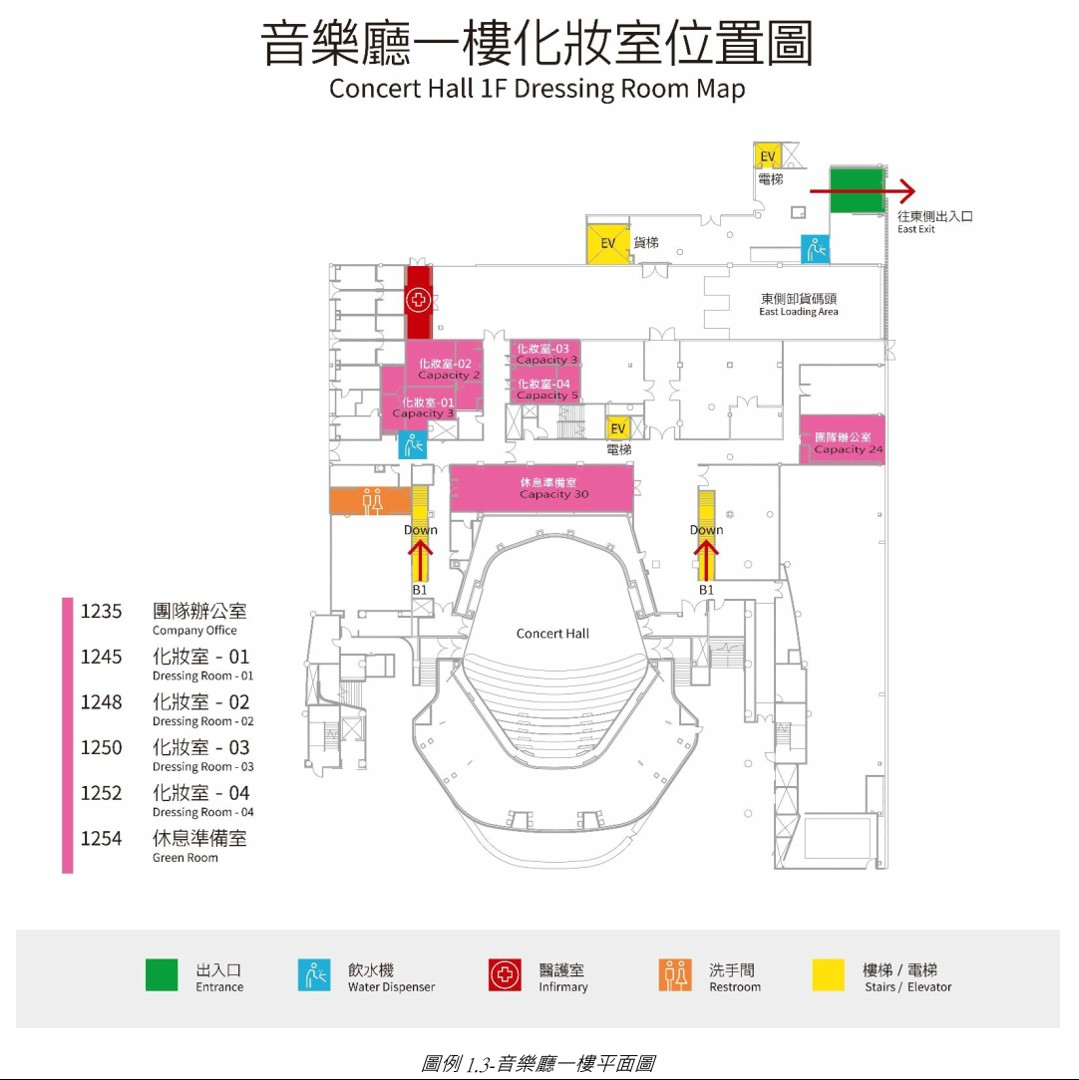
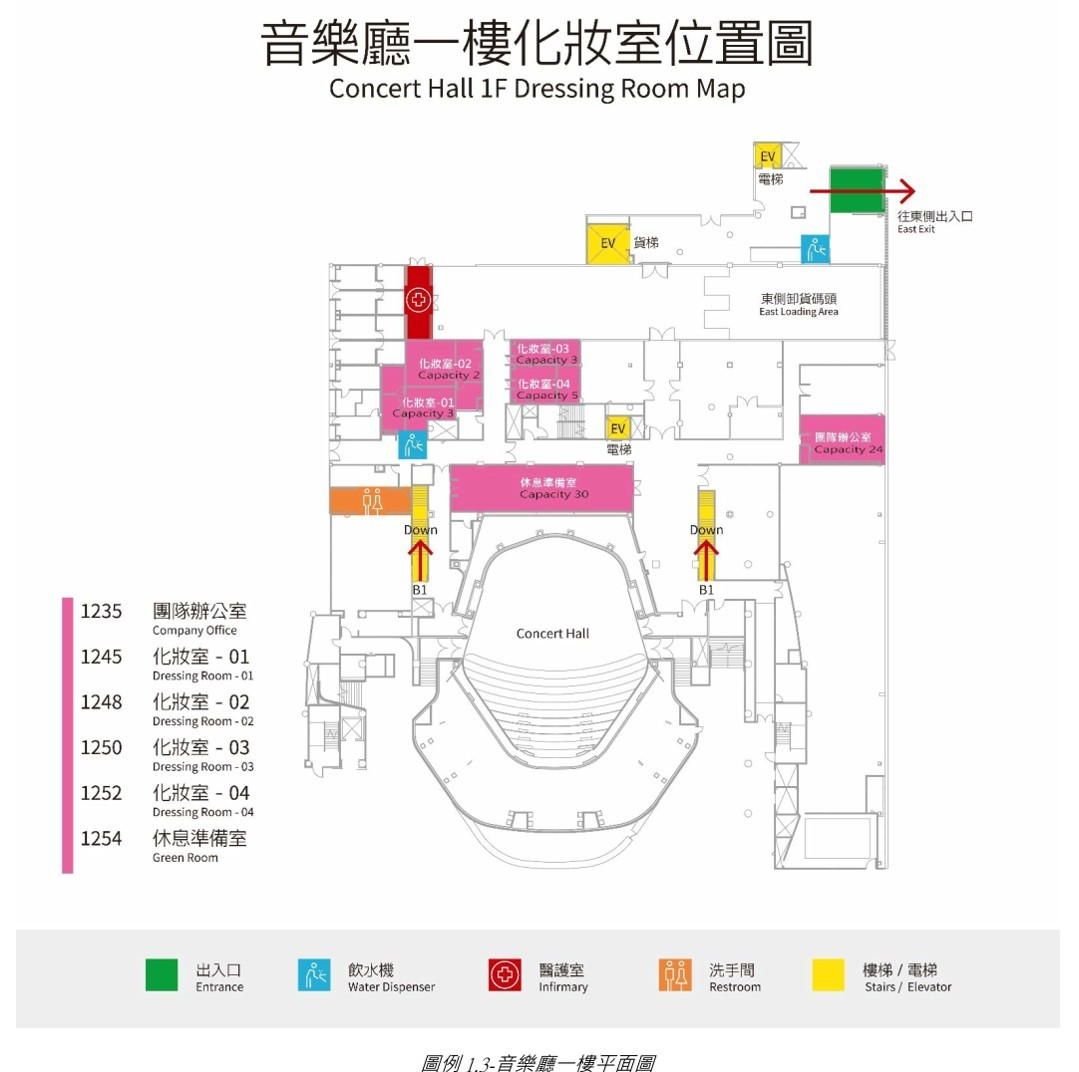
update

diff --git a/location_info.md b/location_info.md
@@ -8,18 +8,18 @@
 **高雄中學　綜合大樓四樓　英文科小劇場**      
 地址：高雄市三民區建國三路50號     
 
-<img src="pic/loc/loc_ks1.jpg" width="40%">     
-<img src="pic/loc/loc_ks2.jpg" width="40%">     
-<img src="pic/loc/loc_ks3.jpg" width="40%">     
-<img src="pic/loc/loc_ks4.jpg" width="40%">     
-<img src="pic/loc/loc_ks5.jpg" width="40%">     
+<img src="pic/loc/loc_ks1.jpg" width="60%">     
+<img src="pic/loc/loc_ks2.jpg" width="60%">     
+<img src="pic/loc/loc_ks3.jpg" width="60%">     
+<img src="pic/loc/loc_ks4.jpg" width="60%">     
+<img src="pic/loc/loc_ks5.jpg" width="60%">     
 
 
 ## 衛武營排練場地
 
-7/27~28：**衛武營　B304　合唱排練室**
-7/29：**衛武營音樂廳後台**
-地址：高雄市鳳山區三多一路 1 號
+7/27~28：**衛武營　B304　合唱排練室**          
+7/29：**衛武營音樂廳後台**         
+地址：高雄市鳳山區三多一路 1 號         
 
 ### 衛武營出入口
 
@@ -27,12 +27,12 @@
 - B1 停車場演職人員入口
 - 營運辦公室（近捷運）
 
-進入場館時需持演出工作證通行，或刷身分證或健保卡進入場館。      
+進入場館時需持演出工作證通行，或**刷身分證或健保卡**進入場館。      
 沿著指標前往地下三樓 B304 合唱排練室。
 
 <img src="pic/loc/w1.jpg" width="60%">   
 <img src="pic/loc/w2.jpg" width="60%">   
-
+<br/>
 ### 音樂廳後台
 <img src="pic/loc/w3.jpg" width="60%">   
 <img src="pic/loc/w4.jpg" width="40%">   